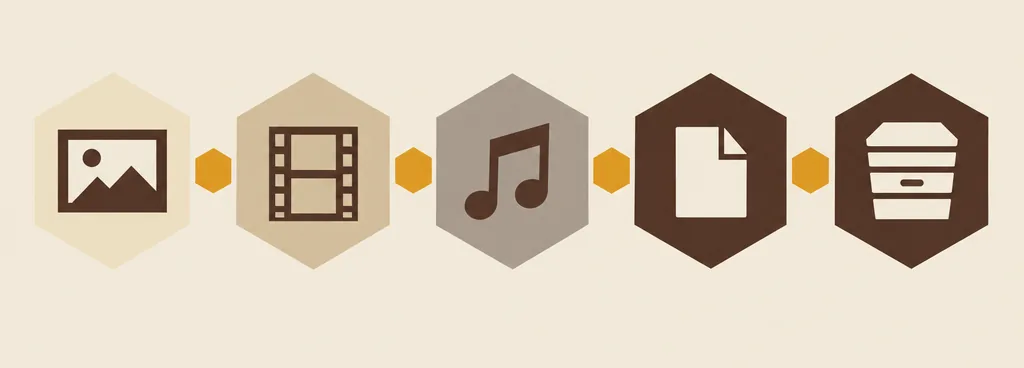
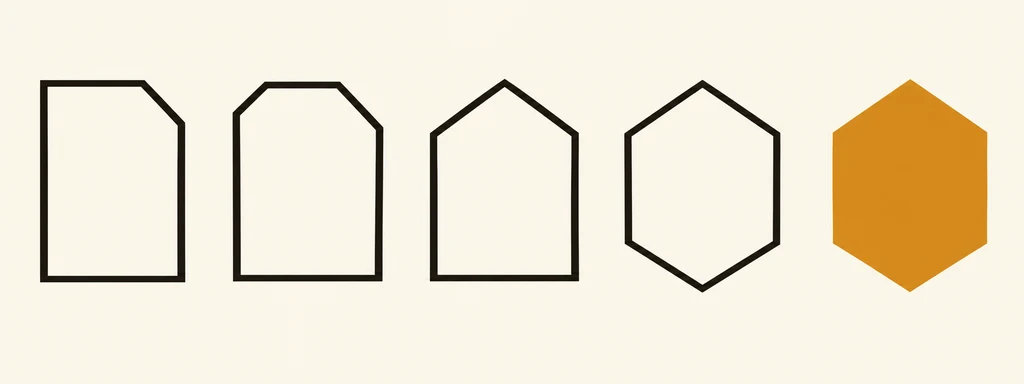
S-063 rework: drawn hero art, sharp regenerated art, big try-it block

diff --git a/site/css/sim.css b/site/css/sim.css
@@ -1,66 +1,113 @@
 /* Try it: the keyboard operable drop demo. The section is always in the page;
    the control after the scene jumps here. Values come from tokens only. */
 html:not(.js) .sim-board { display: none; }
-.s-sim { background: var(--color-surface-0); }
-.sim-board { display: grid; gap: var(--space-6); }
+.s-sim { background: var(--color-surface-1); --head-lede: var(--color-text-primary); }
+.s-sim .section-head { --head-gap: var(--space-6); }
+.s-sim .section-head-lede { max-width: 48ch; }
+.sim-board {
+  --cw: calc(var(--space-9) * 1.2);
+  --edge: var(--border-ring);
+  display: grid;
+  gap: var(--space-6);
+}
 .sim-board > * { min-width: 0; }
-.sim-left { display: grid; gap: var(--space-4); align-content: start; }
-.sim-samples { display: flex; flex-wrap: wrap; gap: var(--space-2); margin: 0; padding: 0; list-style: none; }
+.sim-left { display: grid; gap: var(--space-5); align-content: start; }
+.sim-samples { display: grid; grid-template-columns: repeat(2, minmax(0, 1fr)); gap: var(--space-3); margin: 0; padding: 0; list-style: none; }
 .sim-file {
-  display: inline-flex;
+  display: flex;
   align-items: center;
-  gap: var(--space-2);
-  min-height: var(--target-min);
-  min-width: var(--target-min);
-  padding: var(--space-2) var(--space-4);
-  border: var(--border-edge) solid var(--color-ink);
+  gap: var(--space-4);
+  width: 100%;
+  min-height: calc(var(--space-9) * 0.8);
+  padding: var(--space-3) var(--space-4);
+  border: var(--edge) solid var(--color-ink);
   background: var(--color-paper);
   color: var(--color-ink);
   font: inherit;
-  font-size: var(--type-small);
+  font-size: var(--fs-body);
   font-weight: var(--font-weight-semibold);
+  text-align: start;
   cursor: grab;
 }
+.sim-samples li:last-child { grid-column: 1 / -1; }
 .sim-file:hover, .sim-file:focus-visible { background: var(--color-ink); color: var(--color-paper); }
 .sim-file.on { background: var(--color-accent); color: var(--color-accent-ink); }
-.sim-file .ico { flex: none; width: var(--space-5); height: var(--space-5); fill: none; stroke: currentColor; stroke-width: var(--border-focus); stroke-linejoin: miter; }
+.sim-file .ico { flex: none; width: var(--space-6); height: var(--space-6); fill: none; stroke: currentColor; stroke-width: var(--border-focus); stroke-linejoin: miter; }
 .sim-file .name, .sim-files .name { direction: ltr; unicode-bidi: isolate; font-family: ui-monospace, "IBM Plex Mono", monospace; }
 
+/* The drop zone: a big frame with a hexagon mark. Hover over it while dragging turns it amber. */
 .sim-zone {
   display: grid;
-  align-content: start;
-  gap: var(--space-2);
+  align-content: center;
+  justify-items: center;
+  gap: var(--space-3);
   min-height: calc(var(--space-9) * 2);
   padding: var(--space-5);
-  border: var(--border-edge) dashed var(--color-ink);
-  background: var(--color-surface-1);
+  border: var(--edge) dashed var(--color-ink);
+  background: var(--color-paper);
 }
-.sim-zone.ready { background: var(--color-accent-soft); }
-.sim-zone.over { background: var(--color-accent); }
-.sim-hint { margin: 0; align-self: center; text-align: center; color: var(--color-text-secondary); }
+.sim-zone::before {
+  content: "";
+  width: var(--space-8);
+  height: calc(var(--space-8) * 1.1547);
+  background: var(--color-accent-soft);
+  clip-path: var(--hexagon);
+}
+.sim-zone.full::before { display: none; }
+.sim-zone.ready { background: var(--color-accent-soft); border-style: solid; }
+.sim-zone.over { background: var(--color-accent); border-style: solid; }
+.sim-zone.over::before { background: var(--color-ink); }
+.sim-hint { margin: 0; text-align: center; font-size: var(--fs-lead); font-weight: var(--font-weight-semibold); }
 .sim-zone.full .sim-hint { display: none; }
-.sim-files { display: grid; gap: var(--space-2); margin: 0; padding: 0; list-style: none; }
+.sim-files { display: grid; gap: var(--space-3); width: 100%; margin: 0; padding: 0; list-style: none; }
 .sim-files li {
   display: flex;
   justify-content: space-between;
   align-items: center;
   gap: var(--space-3);
-  padding: var(--space-2) var(--space-4);
-  background: var(--color-paper);
-  border: var(--border-default) solid var(--color-ink);
+  min-height: var(--space-9);
+  padding: var(--space-3) var(--space-5);
+  background: var(--color-surface-0);
+  border: var(--edge) solid var(--color-ink);
+  font-size: var(--fs-lead);
 }
-.sim-files .note { color: var(--color-text-secondary); font-size: var(--type-small); }
+.sim-files .note { color: var(--color-text-secondary); font-size: var(--fs-body); }
 .sim-files li.fresh { background: var(--color-accent); color: var(--color-accent-ink); }
 .sim-files li.fresh .note { color: var(--color-accent-ink); font-weight: var(--font-weight-semibold); }
 
-.sim-stage { display: grid; place-items: center; }
-.sim-idle { display: none; margin: 0; text-align: center; color: var(--color-text-secondary); }
-.js .sim-idle { display: block; }
+.sim-stage { position: relative; display: grid; place-items: center; min-height: calc(var(--cw) * 5.4); }
+.sim-idle {
+  position: relative;
+  isolation: isolate;
+  display: none;
+  align-content: center;
+  justify-items: center;
+  width: calc(var(--cw) * 3.6);
+  height: calc(var(--cw) * 3.6 * 1.1547);
+  margin: 0;
+  padding-inline: 22%;
+  text-align: center;
+  font-size: var(--fs-lead);
+  font-weight: var(--font-weight-semibold);
+}
+.sim-idle::before,
+.sim-idle::after { content: ""; position: absolute; z-index: -1; clip-path: var(--hexagon); }
+.sim-idle::before { inset: 0; background: var(--color-ink); }
+.sim-idle::after { inset-block: calc(var(--border-edge) * 1.1547); inset-inline: var(--border-edge); background: var(--color-surface-0); }
+.js .sim-idle { display: grid; }
 .sim-stage.open .sim-idle { display: none; }
-.sim-hive { --cw: calc(var(--hex-size-md) * 0.866); display: grid; place-items: center; width: calc(var(--cw) * 5.4); height: calc(var(--cw) * 5); }
+.sim-hive { display: grid; place-items: center; width: calc(var(--cw) * 5.4); height: calc(var(--cw) * 5); }
 .sim-hive[data-rings="1"] { width: calc(var(--cw) * 3.3); height: calc(var(--cw) * 3.1); }
 .sim-hive[hidden] { display: none; }
-@media (max-width: 400px) { .sim-hive { --cw: calc(var(--hex-size-md) * 0.78); } }
+@media (max-width: 719px) {
+  .sim-board { --cw: calc((100vw - var(--space-6)) / 5.4); --edge: var(--border-edge); }
+  .sim-board .hx { font-size: calc(var(--type-small) * 0.75); }
+  .sim-centre { font-size: calc(var(--type-small) * 0.6); }
+  .sim-samples { grid-template-columns: 1fr; }
+  .sim-file { min-height: var(--target-min); padding-block: var(--space-2); }
+  .sim-file .ico { width: var(--space-5); height: var(--space-5); }
+  .sim-idle { font-size: var(--fs-body); }
+}
 .sim-cell, .sim-centre {
   grid-area: 1 / 1;
   width: var(--cw);
@@ -88,7 +135,7 @@ html:not(.js) .sim-board { display: none; }
   clip-path: var(--hexagon);
   background: var(--color-paper);
   color: var(--color-ink);
-  font-size: var(--type-small);
+  font-size: var(--type-body);
   font-weight: var(--font-weight-semibold);
 }
 .sim-cell:hover .hx, .sim-cell:focus-visible .hx { background: var(--color-ink); color: var(--color-paper); }
@@ -101,7 +148,7 @@ html:not(.js) .sim-board { display: none; }
   clip-path: var(--hexagon);
   background: var(--color-accent-soft);
   color: var(--color-ink);
-  font-size: var(--type-small);
+  font-size: var(--type-body);
   font-weight: var(--font-weight-semibold);
   line-height: 1.15;
   text-wrap: balance;
@@ -113,7 +160,7 @@ html:not(.js) .sim-board { display: none; }
 .sim-pic .mc { fill: var(--color-paper); stroke: var(--color-ink); stroke-width: var(--border-default); }
 .sim-pic .mc-hot { fill: var(--color-accent); }
 .sim-nojs { margin: 0; color: var(--color-text-secondary); text-align: center; }
-@media (min-width: 720px) { .sim-board { grid-template-columns: minmax(0, 1fr) minmax(0, 1fr); align-items: center; } }
+@media (min-width: 960px) { .sim-board { grid-template-columns: minmax(0, 5fr) minmax(0, 6fr); align-items: center; gap: var(--space-7); } }
 @media (prefers-reduced-motion: no-preference) {
   .js .sim-cell .hx, .js .sim-cell .ring {
     opacity: 0;

diff --git a/site/index.html b/site/index.html
@@ -70,7 +70,7 @@
 <div class="actions"><a class="hex-button button-primary hex-button-lg" href="download/" data-os-default="linux">تنزيل</a><a class="link-all" href="download/">كل التنزيلات</a></div>
 <p class="hero-note">البيتا قريبا للينكس و<a href="windows/">ويندوز (غير موقّع)</a></p>
 </div>
-<div class="stage"><img class="art art-hero" src="assets/art-hero.webp" width="1024" height="768" alt="خلايا سداسية مسطحة متجاورة وفي وسطها خلية كهرمانية" fetchpriority="high"></div>
+<div class="stage"><svg class="hero-art" viewBox="0 0 501 366" role="img" aria-label="خلية ملف PNG تتحول إلى خلية WebP، وبجوارهما خلايا الصيغ الأخرى" focusable="false"><g class="ha-cell ha-ghost" style="--i:0"><path d="M371.7,12.0L428.9,45.0L428.9,111.0L371.7,144.0L314.6,111.0L314.6,45.0Z"/></g><g class="ha-cell" style="--i:1"><path d="M250.5,12.0L307.6,45.0L307.6,111.0L250.5,144.0L193.3,111.0L193.3,45.0Z"/><text x="250.5" y="78.0">AVIF</text></g><g class="ha-cell" style="--i:2"><path d="M129.2,12.0L186.4,45.0L186.4,111.0L129.2,144.0L72.1,111.0L72.1,45.0Z"/><text x="129.2" y="78.0">GIF</text></g><g class="ha-cell ha-src" style="--i:3"><path d="M432.4,117.0L489.5,150.0L489.5,216.0L432.4,249.0L375.2,216.0L375.2,150.0Z"/><text x="432.4" y="183.0">PNG</text></g><g class="ha-cell ha-dst" style="--i:4"><path d="M311.1,117.0L368.3,150.0L368.3,216.0L311.1,249.0L254.0,216.0L254.0,150.0Z"/><text x="311.1" y="183.0">WEBP</text></g><g class="ha-cell" style="--i:5"><path d="M189.9,117.0L247.0,150.0L247.0,216.0L189.9,249.0L132.7,216.0L132.7,150.0Z"/><text x="189.9" y="183.0">JPG</text></g><g class="ha-cell ha-ghost" style="--i:6"><path d="M68.6,117.0L125.8,150.0L125.8,216.0L68.6,249.0L11.5,216.0L11.5,150.0Z"/></g><g class="ha-cell" style="--i:7"><path d="M371.7,222.0L428.9,255.0L428.9,321.0L371.7,354.0L314.6,321.0L314.6,255.0Z"/><text x="371.7" y="288.0">PDF</text></g><g class="ha-cell ha-ghost" style="--i:8"><path d="M250.5,222.0L307.6,255.0L307.6,321.0L250.5,354.0L193.3,321.0L193.3,255.0Z"/></g><g class="ha-cell ha-ghost" style="--i:9"><path d="M129.2,222.0L186.4,255.0L186.4,321.0L129.2,354.0L72.1,321.0L72.1,255.0Z"/></g><g class="ha-go" style="--i:10"><path d="M379.7,159.0L368.7,159.0L354.7,183.0L368.7,207.0L379.7,207.0L367.7,183.0Z"/></g></svg></div>
 </div>
 </section>
 <section id="scene" class="scene" aria-labelledby="scene-title">
@@ -126,7 +126,7 @@
 <div class="section-head"><span class="section-head-mark" aria-hidden="true"></span><h2 id="privacy-title">ملفاتك تبقى عندك</h2></div>
 <div class="split">
   <ul class="plate-list" role="list"><li class="hex-plate hex-plate-accent">بلا رفع</li><li class="hex-plate">بلا تتبع</li><li class="hex-plate">الأصل لا يتغير</li></ul>
-  <div class="privacy-art"><img class="art art-privacy" src="assets/art-privacy.webp" width="1024" height="768" alt="شاشة حاسوب فيها خلايا وملفات وقفل، لا يخرج منها شيء" decoding="async"></div>
+  <div class="privacy-art"><img class="art art-privacy" src="assets/art-privacy.webp" width="1024" height="768" alt="وثيقة داخل سياج من الخلايا السداسية وفي وسطها ثقب مفتاح، لا شيء يعبر الحدود" decoding="async"></div>
 </div>
 
 </div>
@@ -135,7 +135,7 @@
 <div class="wrap">
 
 <div class="section-head"><span class="section-head-mark" aria-hidden="true"></span><h2 id="formats-title">صور وفيديو وصوت ومستندات</h2></div>
-<img class="art art-formats" src="assets/art-formats.webp" width="1024" height="368" alt="خمس خلايا لأنواع الملفات: صور وفيديو وصوت ومستندات وأرشيف" decoding="async">
+<img class="art art-formats" src="assets/art-formats.webp" width="1024" height="384" alt="شكل صفحة يتحول خطوة بعد خطوة إلى خلية سداسية" decoding="async">
 <ul class="format-grid" role="list"><li class="format-cell"><h3>صور</h3><p class="format-cell-codes">PNG JPG WEBP AVIF</p></li><li class="format-cell"><h3>فيديو</h3><p class="format-cell-codes">MP4 WEBM MKV GIF</p></li><li class="format-cell"><h3>صوت</h3><p class="format-cell-codes">MP3 OGG FLAC WAV</p></li><li class="format-cell"><h3>مستندات</h3><p class="format-cell-codes">DOCX ODT XLSX</p></li><li class="format-cell"><h3>PDF</h3><p class="format-cell-codes">PDF</p></li></ul>
 
 </div>

diff --git a/site/en/index.html b/site/en/index.html
@@ -70,7 +70,7 @@
 <div class="actions"><a class="hex-button button-primary hex-button-lg" href="download/" data-os-default="linux">Download</a><a class="link-all" href="download/">All downloads</a></div>
 <p class="hero-note">Beta coming soon for Linux and <a href="windows/">Windows (unsigned)</a></p>
 </div>
-<div class="stage"><img class="art art-hero" src="../assets/art-hero.webp" width="1024" height="768" alt="Flat hexagon cells joined as a honeycomb with one amber cell in the middle" fetchpriority="high"></div>
+<div class="stage"><svg class="hero-art" viewBox="0 0 501 366" role="img" aria-label="A PNG file cell turns into a WebP cell, with cells for the other formats beside it" focusable="false"><g class="ha-cell ha-ghost" style="--i:0"><path d="M129.2,12.0L186.4,45.0L186.4,111.0L129.2,144.0L72.1,111.0L72.1,45.0Z"/></g><g class="ha-cell" style="--i:1"><path d="M250.5,12.0L307.6,45.0L307.6,111.0L250.5,144.0L193.3,111.0L193.3,45.0Z"/><text x="250.5" y="78.0">AVIF</text></g><g class="ha-cell" style="--i:2"><path d="M371.7,12.0L428.9,45.0L428.9,111.0L371.7,144.0L314.6,111.0L314.6,45.0Z"/><text x="371.7" y="78.0">GIF</text></g><g class="ha-cell ha-src" style="--i:3"><path d="M68.6,117.0L125.8,150.0L125.8,216.0L68.6,249.0L11.5,216.0L11.5,150.0Z"/><text x="68.6" y="183.0">PNG</text></g><g class="ha-cell ha-dst" style="--i:4"><path d="M189.9,117.0L247.0,150.0L247.0,216.0L189.9,249.0L132.7,216.0L132.7,150.0Z"/><text x="189.9" y="183.0">WEBP</text></g><g class="ha-cell" style="--i:5"><path d="M311.1,117.0L368.3,150.0L368.3,216.0L311.1,249.0L254.0,216.0L254.0,150.0Z"/><text x="311.1" y="183.0">JPG</text></g><g class="ha-cell ha-ghost" style="--i:6"><path d="M432.4,117.0L489.5,150.0L489.5,216.0L432.4,249.0L375.2,216.0L375.2,150.0Z"/></g><g class="ha-cell" style="--i:7"><path d="M129.2,222.0L186.4,255.0L186.4,321.0L129.2,354.0L72.1,321.0L72.1,255.0Z"/><text x="129.2" y="288.0">PDF</text></g><g class="ha-cell ha-ghost" style="--i:8"><path d="M250.5,222.0L307.6,255.0L307.6,321.0L250.5,354.0L193.3,321.0L193.3,255.0Z"/></g><g class="ha-cell ha-ghost" style="--i:9"><path d="M371.7,222.0L428.9,255.0L428.9,321.0L371.7,354.0L314.6,321.0L314.6,255.0Z"/></g><g class="ha-go" style="--i:10"><path d="M121.2,159.0L132.2,159.0L146.2,183.0L132.2,207.0L121.2,207.0L133.2,183.0Z"/></g></svg></div>
 </div>
 </section>
 <section id="scene" class="scene" aria-labelledby="scene-title">
@@ -126,7 +126,7 @@
 <div class="section-head"><span class="section-head-mark" aria-hidden="true"></span><h2 id="privacy-title">Your files stay with you</h2></div>
 <div class="split">
   <ul class="plate-list" role="list"><li class="hex-plate hex-plate-accent">No uploads</li><li class="hex-plate">No tracking</li><li class="hex-plate">Original untouched</li></ul>
-  <div class="privacy-art"><img class="art art-privacy" src="../assets/art-privacy.webp" width="1024" height="768" alt="A computer screen with hive cells, files and a padlock, nothing leaves it" decoding="async"></div>
+  <div class="privacy-art"><img class="art art-privacy" src="../assets/art-privacy.webp" width="1024" height="768" alt="A document sealed inside a fence of small hexagons with a keyhole, nothing crosses the border" decoding="async"></div>
 </div>
 
 </div>
@@ -135,7 +135,7 @@
 <div class="wrap">
 
 <div class="section-head"><span class="section-head-mark" aria-hidden="true"></span><h2 id="formats-title">Images, video, audio, documents</h2></div>
-<img class="art art-formats" src="../assets/art-formats.webp" width="1024" height="368" alt="Five hive cells for file types: images, video, audio, documents and archives" decoding="async">
+<img class="art art-formats" src="../assets/art-formats.webp" width="1024" height="384" alt="A page shape that turns step by step into a hexagon cell" decoding="async">
 <ul class="format-grid" role="list"><li class="format-cell"><h3>Images</h3><p class="format-cell-codes">PNG JPG WEBP AVIF</p></li><li class="format-cell"><h3>Video</h3><p class="format-cell-codes">MP4 WEBM MKV GIF</p></li><li class="format-cell"><h3>Audio</h3><p class="format-cell-codes">MP3 OGG FLAC WAV</p></li><li class="format-cell"><h3>Documents</h3><p class="format-cell-codes">DOCX ODT XLSX</p></li><li class="format-cell"><h3>PDF</h3><p class="format-cell-codes">PDF</p></li></ul>
 
 </div>

diff --git a/site/css/hero.css b/site/css/hero.css
@@ -3,7 +3,7 @@
 .hero-grid { display: grid; grid-template-columns: 1fr; gap: var(--space-6); align-items: center; }
 .hero-grid > * { min-width: 0; }
 .hero-copy { position: relative; z-index: 2; }
-.hero .lead { margin-block-start: var(--space-5); max-width: 20ch; }
+.hero .lead { margin-block-start: var(--space-5); max-width: 32ch; }
 .hero .actions { margin-block-start: var(--space-6); }
 .link-all {
   display: inline-flex;
@@ -31,23 +31,27 @@
 }
 .hero-note a:hover, .hero-note a:focus-visible { background: var(--color-ink); color: var(--color-paper); }
 .stage { position: relative; z-index: 1; }
-.hive { width: 100%; max-width: min(100%, calc(100svh * 0.9)); height: auto; margin-inline: auto; display: block; overflow: visible; }
-.hive path { fill: var(--color-paper); stroke: var(--color-ink); stroke-width: var(--border-edge); stroke-linejoin: miter; }
-.hive text {
-  fill: var(--color-ink);
+.hero-art { display: block; width: 100%; height: auto; margin-inline: auto; overflow: visible; }
+.hero-art path { stroke-linejoin: miter; stroke-width: calc(var(--border-ring) * 1.5); }
+.hero-art text {
   font-family: var(--font-family);
-  font-size: calc(var(--type-small) * 0.7);
+  font-size: calc(var(--type-small) * 1.5);
   font-weight: var(--font-weight-semibold);
+  fill: var(--color-ink);
   text-anchor: middle;
   dominant-baseline: central;
-  pointer-events: none;
+  direction: ltr;
 }
-.hive .cell-center path { fill: var(--color-accent-soft); }
-.hive .cell-empty path { fill: var(--color-surface-1); stroke: var(--color-border); }
-.hive .cell-active path { fill: var(--color-accent); }
-.hive .cell-active text { fill: var(--color-accent-ink); }
+.ha-cell path { fill: var(--color-paper); stroke: var(--color-ink); }
+.ha-ghost path { fill: var(--color-surface-1); stroke: var(--color-border); stroke-width: var(--border-ring); }
+.ha-src path { fill: var(--color-ink); }
+.ha-src text { fill: var(--color-paper); }
+.ha-dst path { fill: var(--color-accent); }
+.ha-dst text { fill: var(--color-accent-ink); }
+.ha-go path { fill: var(--color-ink); stroke: var(--color-paper); }
 @media (prefers-reduced-motion: no-preference) {
-  .js .hive .cell {
+  .js .hero-art .ha-cell,
+  .js .hero-art .ha-go {
     opacity: 0;
     animation: cell-pop var(--duration-slow) var(--ease-out) forwards;
     animation-delay: calc(var(--i, 0) * var(--duration-stagger));

diff --git a/site/style.css b/site/style.css
@@ -116,7 +116,8 @@ body:lang(ar) h2 { line-height: 1.3; }
 .lead { margin: var(--space-5) 0 0; font-size: var(--fs-lead); max-width: 24ch; }
 .fine { color: var(--color-text-secondary); margin: var(--space-4) 0 0; }
 .muted { color: var(--color-text-secondary); }
-.hl { background: var(--color-accent); color: var(--color-accent-ink); padding-inline: var(--space-2); }
+.hl { display: inline-block; line-height: 1.05; background: var(--color-accent); color: var(--color-accent-ink); padding-inline: var(--space-2); }
+body:lang(ar) .hl { line-height: 1.3; }
 
 /* Sections. Each pins its own surface. Vertical room comes from the section
    padding and from the heading block, never from a hidden height. */

diff --git a/site/css/art.css b/site/css/art.css
@@ -1,7 +1,6 @@
 /* Generated art (AC9): flat WebP on the paper palette. Sharp edges, no frames drawn
    with shadows; the picture itself carries the shapes. */
 .art { display: block; width: 100%; height: auto; }
-.art-hero { aspect-ratio: 1; object-fit: cover; object-position: 100% 50%; }
 .art-formats { margin-block-end: var(--space-7); }
 .privacy-art { min-width: 0; }
 .privacy-art .art { max-width: calc(var(--space-10) * 5); margin-inline: auto; }

diff --git a/site/build.py b/site/build.py
@@ -164,28 +164,6 @@ def hive_config(lang):
 # Static pieces
 # ---------------------------------------------------------------------------
 
-def static_hive(lang):
-    """First paint and no-JS fallback: the image hive, same geometry as app.js."""
-    rtl = lang == "ar"
-    kind = kinds(lang)[0]
-    out = []
-    for i, (q, r) in enumerate(spiral(RINGS)):
-        cx, cy = cell_xy(q, r, rtl)
-        if i == 0:
-            out.append(f'<g class="cell cell-center" style="--i:0"><path d="{hex_path(cx, cy)}"/>'
-                       f'<text x="{cx:.1f}" y="{cy:.1f}">{html.escape(kind["label"])}</text></g>')
-            continue
-        idx = i - 1
-        if idx < len(kind["cells"]):
-            c = kind["cells"][idx]
-            cls = "cell cell-active" if idx == 0 else "cell"
-            out.append(f'<g class="{cls}" style="--i:{i}"><path d="{hex_path(cx, cy)}"/>'
-                       f'<text x="{cx:.1f}" y="{cy:.1f}">{html.escape(c["c"])}</text></g>')
-        else:
-            out.append(f'<g class="cell cell-empty" style="--i:{i}"><path d="{hex_path(cx, cy)}"/></g>')
-    return "\n".join(out)
-
-
 def mini_cluster(cx, cy, radius, rtl=False, classes=None):
     """Seven small cells (centre plus ring 1) around (cx, cy)."""
     s = radius + 2 / SQRT3
@@ -452,9 +430,8 @@ def format_cell(title, codes):
 
 
 ART = {
-    "hero": (1024, 768, "خلايا سداسية مسطحة متجاورة وفي وسطها خلية كهرمانية", "Flat hexagon cells joined as a honeycomb with one amber cell in the middle"),
-    "privacy": (1024, 768, "شاشة حاسوب فيها خلايا وملفات وقفل، لا يخرج منها شيء", "A computer screen with hive cells, files and a padlock, nothing leaves it"),
-    "formats": (1024, 368, "خمس خلايا لأنواع الملفات: صور وفيديو وصوت ومستندات وأرشيف", "Five hive cells for file types: images, video, audio, documents and archives"),
+    "privacy": (1024, 768, "وثيقة داخل سياج من الخلايا السداسية وفي وسطها ثقب مفتاح، لا شيء يعبر الحدود", "A document sealed inside a fence of small hexagons with a keyhole, nothing crosses the border"),
+    "formats": (1024, 384, "شكل صفحة يتحول خطوة بعد خطوة إلى خلية سداسية", "A page shape that turns step by step into a hexagon cell"),
 }
 
 
@@ -615,13 +592,43 @@ def pills(lang, verify_href, win_href):
             f'</ul>')
 
 
-def stage(lang):
-    """The hero hive: a quiet picture of the idea. The try-it demo is the #sim section."""
-    return f'''<div class="stage" aria-hidden="true">
-  <svg class="hive" viewBox="{VIEW}" focusable="false">
-{static_hive(lang)}
-  </svg>
-</div>'''
+HERO_ALT = {
+    "ar": "خلية ملف PNG تتحول إلى خلية WebP، وبجوارهما خلايا الصيغ الأخرى",
+    "en": "A PNG file cell turns into a WebP cell, with cells for the other formats beside it",
+}
+
+
+def hero_art(lang):
+    """The hero picture, drawn here: a honeycomb in which a PNG cell (ink) turns into a WebP cell
+    (amber) across one bold chevron, beside the other formats it could become. Sharp polygons only."""
+    rtl = lang == "ar"
+    r = 70.0
+    dx, dy = SQRT3 * r, 1.5 * r
+    w, h = 4 * dx + 16, 2 * dy + 2 * r + 16
+    rows = [  # (row, column, offset in half cells, code, kind)
+        (0, 0, 1, "", "ghost"), (0, 1, 1, "AVIF", ""), (0, 2, 1, "GIF", ""),
+        (1, 0, 0, "PNG", "src"), (1, 1, 0, "WEBP", "dst"), (1, 2, 0, "JPG", ""), (1, 3, 0, "", "ghost"),
+        (2, 0, 1, "PDF", ""), (2, 1, 1, "", "ghost"), (2, 2, 1, "", "ghost"),
+    ]
+
+    def xy(row, col, half):
+        x = dx * (col + half / 2) + dx / 2 + 8
+        return (w - x if rtl else x), dy * row + r + 8
+
+    cells = []
+    for i, (row, col, half, code, kind) in enumerate(rows):
+        cx, cy = xy(row, col, half)
+        cls = "ha-cell" + (f" ha-{kind}" if kind else "")
+        label = f'<text x="{cx:.1f}" y="{cy:.1f}">{code}</text>' if code else ""
+        cells.append(f'<g class="{cls}" style="--i:{i}"><path d="{hex_path(cx, cy, r - 4)}"/>{label}</g>')
+    ax, ay = xy(1, 0, 0)
+    bx, by = xy(1, 1, 0)
+    mx, my = (ax + bx) / 2, (ay + by) / 2
+    d = -1 if rtl else 1
+    pts = [(-8, -24), (3, -24), (17, 0), (3, 24), (-8, 24), (4, 0)]
+    chev = "M" + "L".join(f"{mx + d * x:.1f},{my + y:.1f}" for x, y in pts) + "Z"
+    return (f'<svg class="hero-art" viewBox="0 0 {w:.0f} {h:.0f}" role="img" aria-label="{HERO_ALT[lang]}" focusable="false">'
+            + "".join(cells) + f'<g class="ha-go" style="--i:10"><path d="{chev}"/></g></svg>')
 
 
 # ---------------------------------------------------------------------------
@@ -840,7 +847,7 @@ def home(lang):
 <div class="actions">{btn}<a class="link-all" href="{dl_href}">{t["all"]}</a></div>
 <p class="hero-note">{note}</p>
 </div>
-<div class="stage">{art(lang, "hero", lazy=False)}</div>
+<div class="stage">{hero_art(lang)}</div>
 </div>
 </section>
 '''
